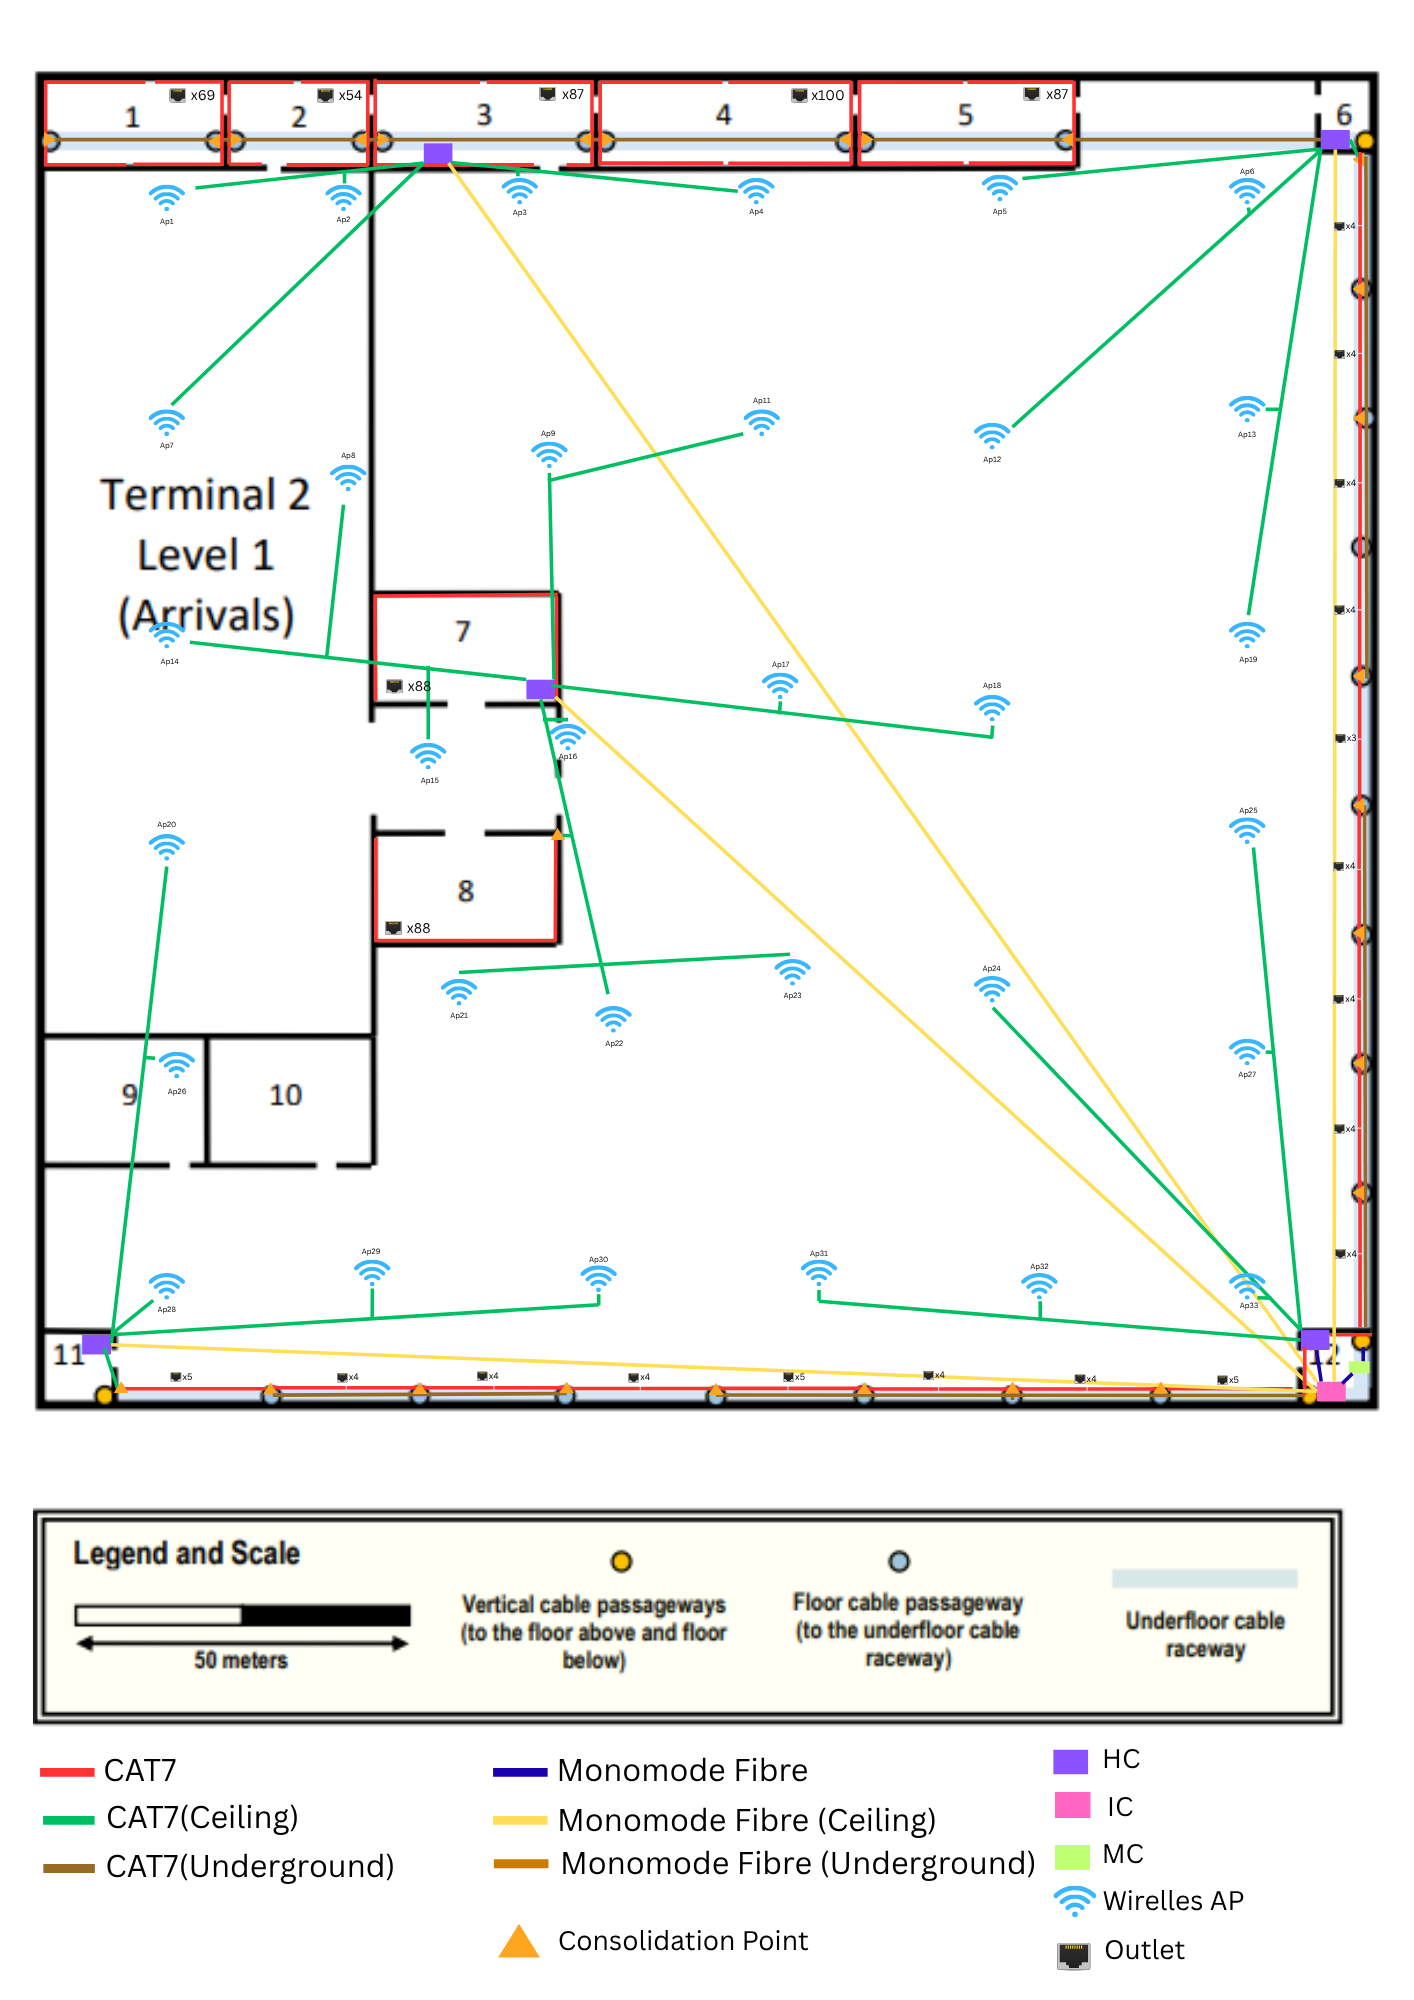
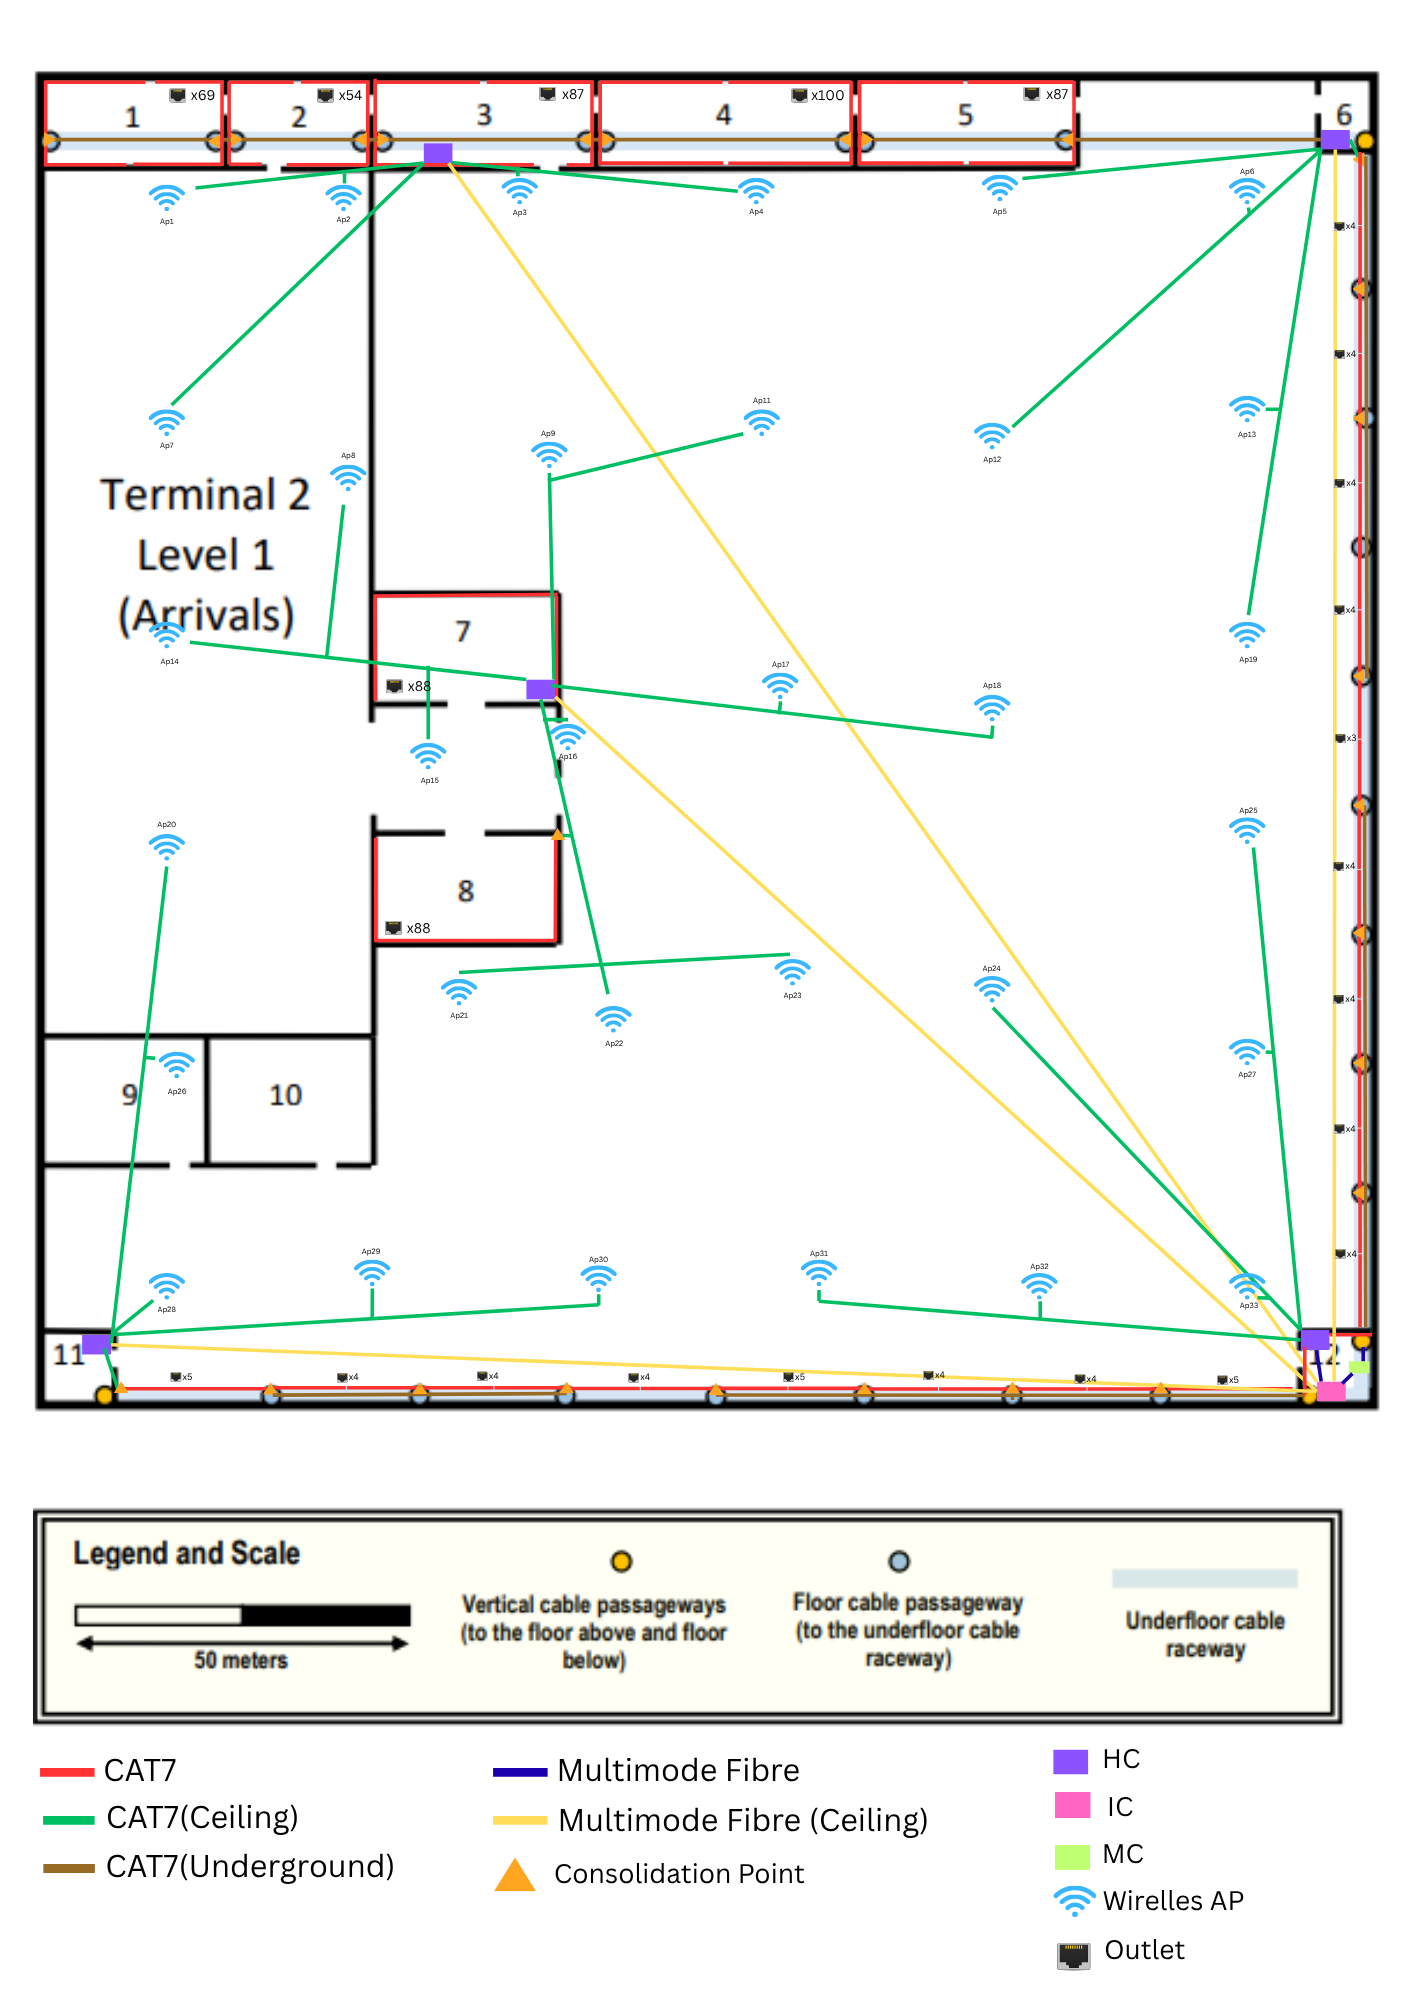
Changing Terminal 2 Sprint1 design to be aligned with the Sprint 2 planning

Changed region(s): [[0.3423, 0.868, 0.6535, 0.992], [0.6535, 0.93, 0.6846, 0.961]]

diff --git a/doc/sprint1/1241129/Terminals/Terminal2-Level4.md b/doc/sprint1/1241129/Terminals/Terminal2-Level4.md
@@ -348,6 +348,6 @@ A cobertura wireless foi garantida através da instalação de **access points**
 ---
 ## <span style="color: #1F4E79">Hardware Inventory</span>
 
-| Network Outlets | CAT7 Cables Length | Monomode 10 Cables Length | Patch Panels (cobre) | Patch Panels (fibra) | Access Point | IC | HC | CP |
-|:---------------:|:------------------:|:-------------------------:|:--------------------:|:--------------------:|:------------:|:--:|:--:|:--:|
-|       787       |      13795,97      |           539,39          |          5           |          6           |      31      | 1  | 5  | 32 |
+| Network Outlets | CAT7 Cables Length | Multimode 10 Cables Length | Patch Panels (cobre) | Patch Panels (fibra) | Access Point | IC | HC | CP |
+|:---------------:|:------------------:|:--------------------------:|:--------------------:|:--------------------:|:------------:|:--:|:--:|:--:|
+|       787       |      13795,97      |           539,39           |          5           |          6           |      31      | 1  | 5  | 32 |

diff --git a/doc/sprint1/1241129/Terminals/Terminal2-Level1.md b/doc/sprint1/1241129/Terminals/Terminal2-Level1.md
@@ -274,6 +274,6 @@ A cobertura wireless foi garantida através da instalação de **32 wireless acc
 
 ## <span style="color: #1F4E79">Hardware Inventory</span>
 
-| Network Outlets | CAT7 Cables Length | Monomode 10 Cables Length | Patch Panels (cobre) | Patch Panels (fibra) | Access Point | IC | HC | CP|
-|:---------------:|:------------------:|:-------------------------:|:--------------------:|:--------------------:|:------------:|:--:|:--:|:--:|
-|       643       |      10187.21      |           752.69          |          5           |          6           |      31      | 1  | 5  | 26 |
+| Network Outlets | CAT7 Cables Length | Multimode 10 Cables Length | Patch Panels (cobre) | Patch Panels (fibra) | Access Point | IC | HC | CP|
+|:---------------:|:------------------:|:--------------------------:|:--------------------:|:--------------------:|:------------:|:--:|:--:|:--:|
+|       643       |      10187.21      |           752.69           |          5           |          6           |      31      | 1  | 5  | 26 |
